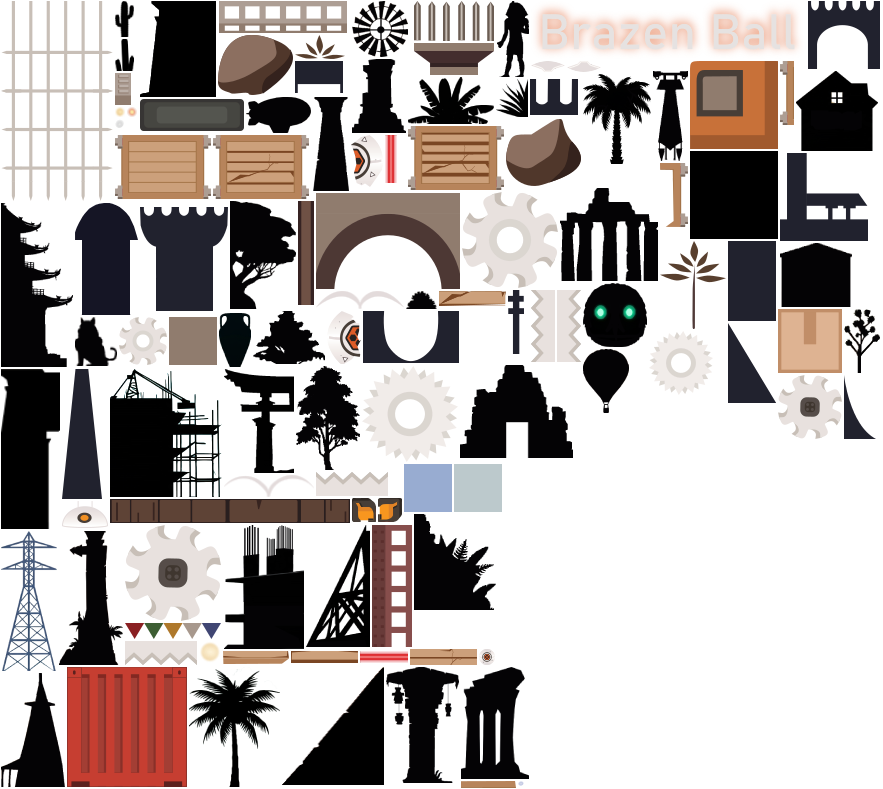
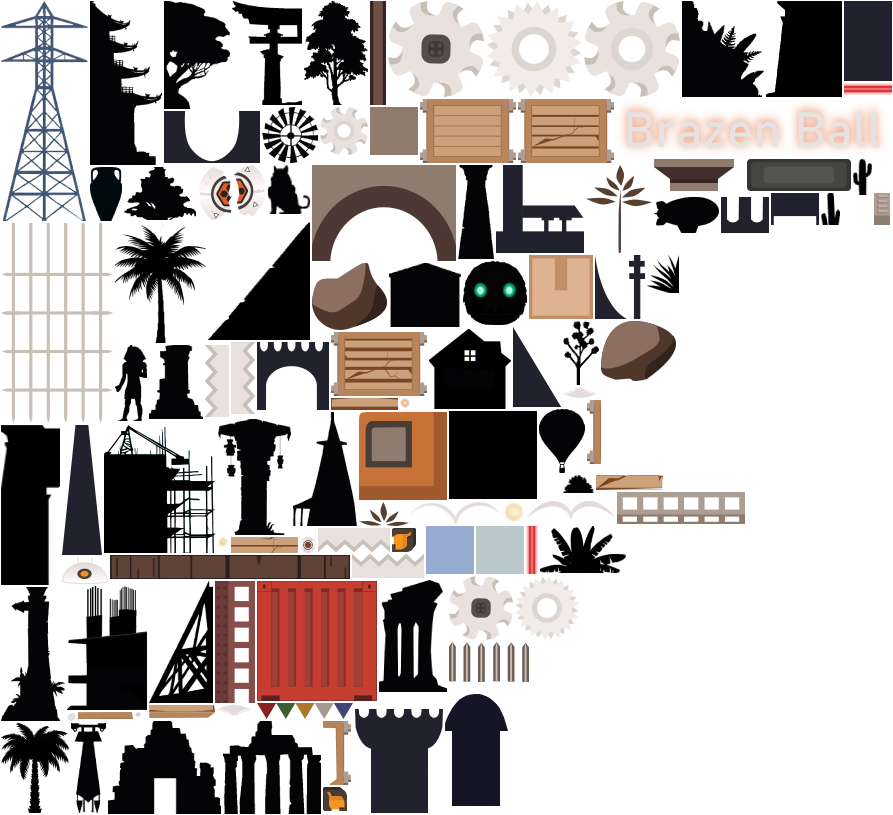
Allow entityFactory to be passed to for custom background entities

diff --git a/lib/utils/index.js b/lib/utils/index.js
@@ -1,4 +1,6 @@
 import { pickOne, rand } from "./math"
+import { TexRegion } from "@lib/entities"
+import config from "@config"
 
 const dupeRegex = /_dupe\d+$/
 
@@ -24,7 +26,8 @@ export const wait = s => {
 }
 
 export class BGenMachine {
-    constructor(biomeConstructors, dimsMap, baseWidth = 48, baseHeight = 64) {
+    constructor(biomeConstructors, dimsMap, entityMap, baseWidth = 48, baseHeight = 64) {
+        this.entityMap = entityMap
         this.states = biomeConstructors.reduce((map, Constructor) => {
             map[Constructor.name] = new Constructor(this, dimsMap);
             return map;
@@ -44,15 +47,28 @@ export class BGenMachine {
         this.currentBiome = typeof C === "string" ? this.states[C] : this.states[C.name];
         this.initialBiome = this.currentBiome
     }
-
-    generate() {
+    mapToEntities(tiles) {
+        for (let i = 0; i < tiles.length; i++) {
+            const tile = tiles[i]
+            const Entity = this.entityMap[tile.t] || TexRegion
+            const entity = new Entity({ frame: tile.t, pos: { x: tile.x, y: config.viewport.height  + tile.y }})
+            if (tile.flip) {
+                entity.scale = { x: -1, y: 1 }
+            }
+            entity.y0 = tile.y
+            tiles[i] = entity
+        }
+        return tiles
+    }
+    generate(raw) {
         if (!this.currentBiome) {
             this.currentBiome = this.initialBiome
             if (!this.currentBiome) {
                 throw new Error("No initial biome set")
             }
         }
-        return this.currentBiome.generate();
+        const tiles = this.currentBiome.generate()
+        return raw ? tiles: this.mapToEntities(tiles);
     }
     generateMinWidth(width) {
         const targetX = this.curX + width
@@ -105,7 +121,7 @@ export class BiomeGen {
                 const dh = lastH - curH
                 stateMachine.excessX = -dh * baseWidth - 24
                 const curX = stateMachine.curX
-                const results = stateMachine.generate();
+                const results = stateMachine.generate(true);
                 for (let row = 1; row < dh + 1; row++) {
                     const frame = (row % 2 === (dh > 1 ? 0 : 1)) ? "arch1" : "half_base"
                     results.push({ t: frame, y: - (curH + row - 1) * baseHeight - this.objGraph.dimsMap[frame].height, x: curX + (dh - row) * baseWidth })
@@ -119,7 +135,7 @@ export class BiomeGen {
                 const curX = stateMachine.curX
                 stateMachine.curX += dh * baseWidth
                 stateMachine.excessX = -48
-                const results = stateMachine.generate()
+                const results = stateMachine.generate(true)
                 for (let row = 0; row < dh; row++) {
                     const frame = (row % 2 === (dh > 1 ? 1 : 0)) ? "arch1" : "half_base"
                     const { height } = this.objGraph.dimsMap[frame]
@@ -202,9 +218,9 @@ export class ObjGraph {
             this.nodes.get(this.repeatingNodes[src]).push({ weight, src, dest, gap })
             return
         }
-        const srcNode = this.nodes.get(src)
         reps = Array.isArray(reps) ? rand(reps[1], reps[0]): reps
         if (reps > 0 && src === dest) {
+            const srcNode = this.nodes.get(src)
             const leftover = [...srcNode]
             srcNode.length = 0
             let lastNode = src

diff --git a/src/utils/biomes/Suburb.js b/src/utils/biomes/Suburb.js
@@ -1,0 +1,42 @@
+import {  BiomeGen } from "@lib/utils/index.js"
+
+class Suburb extends BiomeGen {
+    height=5
+    constructor(stateMachine, dimsMap) {
+        super(stateMachine, dimsMap);
+        // TODO add transitions
+        this.addTransition("Ruins", 1)
+        const { objGraph: graph } = this
+        graph.addNodes([
+            "tree2",
+            "tree2_flipped",
+            "tower",
+            "sb_mill",
+            "sb_mill_flipped",
+            "sb_haus1",
+            "sb_haus2",
+            "pole",
+            "bush"
+        ])
+
+        graph.addInitialNode("tower")
+        graph.addEdge("tree2_flipped", "tree2")
+
+        graph.addEdge("tower", "tree2_flipped", 80)
+        graph.addEdge("tower", "sb_haus1", 72)
+        graph.addEdge("tower", "sb_mill_flipped", 72)
+        graph.addEdge("sb_mill_flipped", "sb_haus1", 36)
+        graph.addEdge("sb_haus1", "sb_haus1", 6, 1, [1, 2])
+        graph.addEdge("sb_haus1", "tree2_flipped", 46)
+
+        graph.addEdge("tree2", "sb_mill", 54)
+        graph.addEdge("tree2", "pole", 12)
+        graph.addEdge("tree2", "pole", 12)
+        graph.addEdge("pole", "sb_haus2", 20)
+        graph.addEdge("sb_haus2", "bush", 4)
+        graph.addEdge("bush", "sb_mill", 54)
+
+    }
+}
+
+export default Suburb

diff --git a/src/screens/utils.js b/src/screens/utils.js
@@ -2,17 +2,12 @@ import { Node } from "@lib"
 import config from "@config"
 import TexRegion from "@lib/entities/TexRegion"
 
-export const placeBg = (screen, bgData, overlay=[0.03529411764705882, 0.03529411764705882, 0.03529411764705882], rendererAPI) => {
+export const placeBg = (screen, bgEntities, overlay=[0.03529411764705882, 0.03529411764705882, 0.03529411764705882], rendererAPI) => {
     if (rendererAPI !== "webgl") return
     screen.container = new Node()
     screen.add(screen.container)
-    bgData.forEach(tile => {
-        const tex = new TexRegion({ frame: tile.t, pos: { x: tile.x, y: config.viewport.height  + tile.y }})
-        if (tile.flip) {
-            tex.scale = { x: -1, y: 1 }
-        }
-        tex.y0 = tile.y
-        screen.container.add(tex)
+    bgEntities.forEach(entity => {
+        screen.container.add(entity)
     })
     screen.container.overlay = overlay
     const realignBg = () => {

diff --git a/src/utils/BGen.js b/src/utils/BGen.js
@@ -6,11 +6,12 @@ import Japan from "./biomes/Japan"
 import Industrial from "./biomes/Industrial"
 import Medieval from "./biomes/Medieval"
 import Ruins from "./biomes/Ruins"
+import Suburb from "./biomes/Suburb"
 
 class BGen extends BGenMachine {
-    constructor(atlasmeta, baseWidth=48, baseHeight=64) {
-        super([ Egypt, Construction, Exotica, Japan, Industrial, Ruins, Medieval ], atlasmeta, baseWidth, baseHeight)
-        this.setInitialBiome(Ruins)
+    constructor(atlasmeta, entityMap, baseWidth=48, baseHeight=64) {
+        super([ Egypt, Construction, Exotica, Japan, Industrial, Suburb, Ruins, Medieval ], atlasmeta, entityMap, baseWidth, baseHeight)
+        this.setInitialBiome(Suburb)
     }
 }
 

diff --git a/src/screens/MainMenu/index.js b/src/screens/MainMenu/index.js
@@ -46,7 +46,7 @@ class MainMenuScreen extends Node {
             viewport.on("change", this.realign)
             this.realign(viewport)
 
-            this.bgen = new BGen(game.assetsCache.get(atlasMeta), 48, 80)
+            this.bgen = new BGen(game.assetsCache.get(atlasMeta), { }, 48, 80)
             this.teardownBg = placeBg(this, this.bgen.generateMinWidth(1920), [0.033203125,0.06640625,0.107421875], game.renderer.api)
             this.add(graphic)
             this.add(this.gameTitle)

diff --git a/src/utils/biomes/Ruins.js b/src/utils/biomes/Ruins.js
@@ -5,7 +5,7 @@ class Ruins extends BiomeGen {
     constructor(stateMachine, dimsMap) {
         super(stateMachine, dimsMap);
         // TODO add transitions
-        this.addTransition("Exotica", 1)
+        this.addTransition("Medieval", 1)
         const { objGraph: graph } = this
         graph.addNodes([
             "ruin_1",
